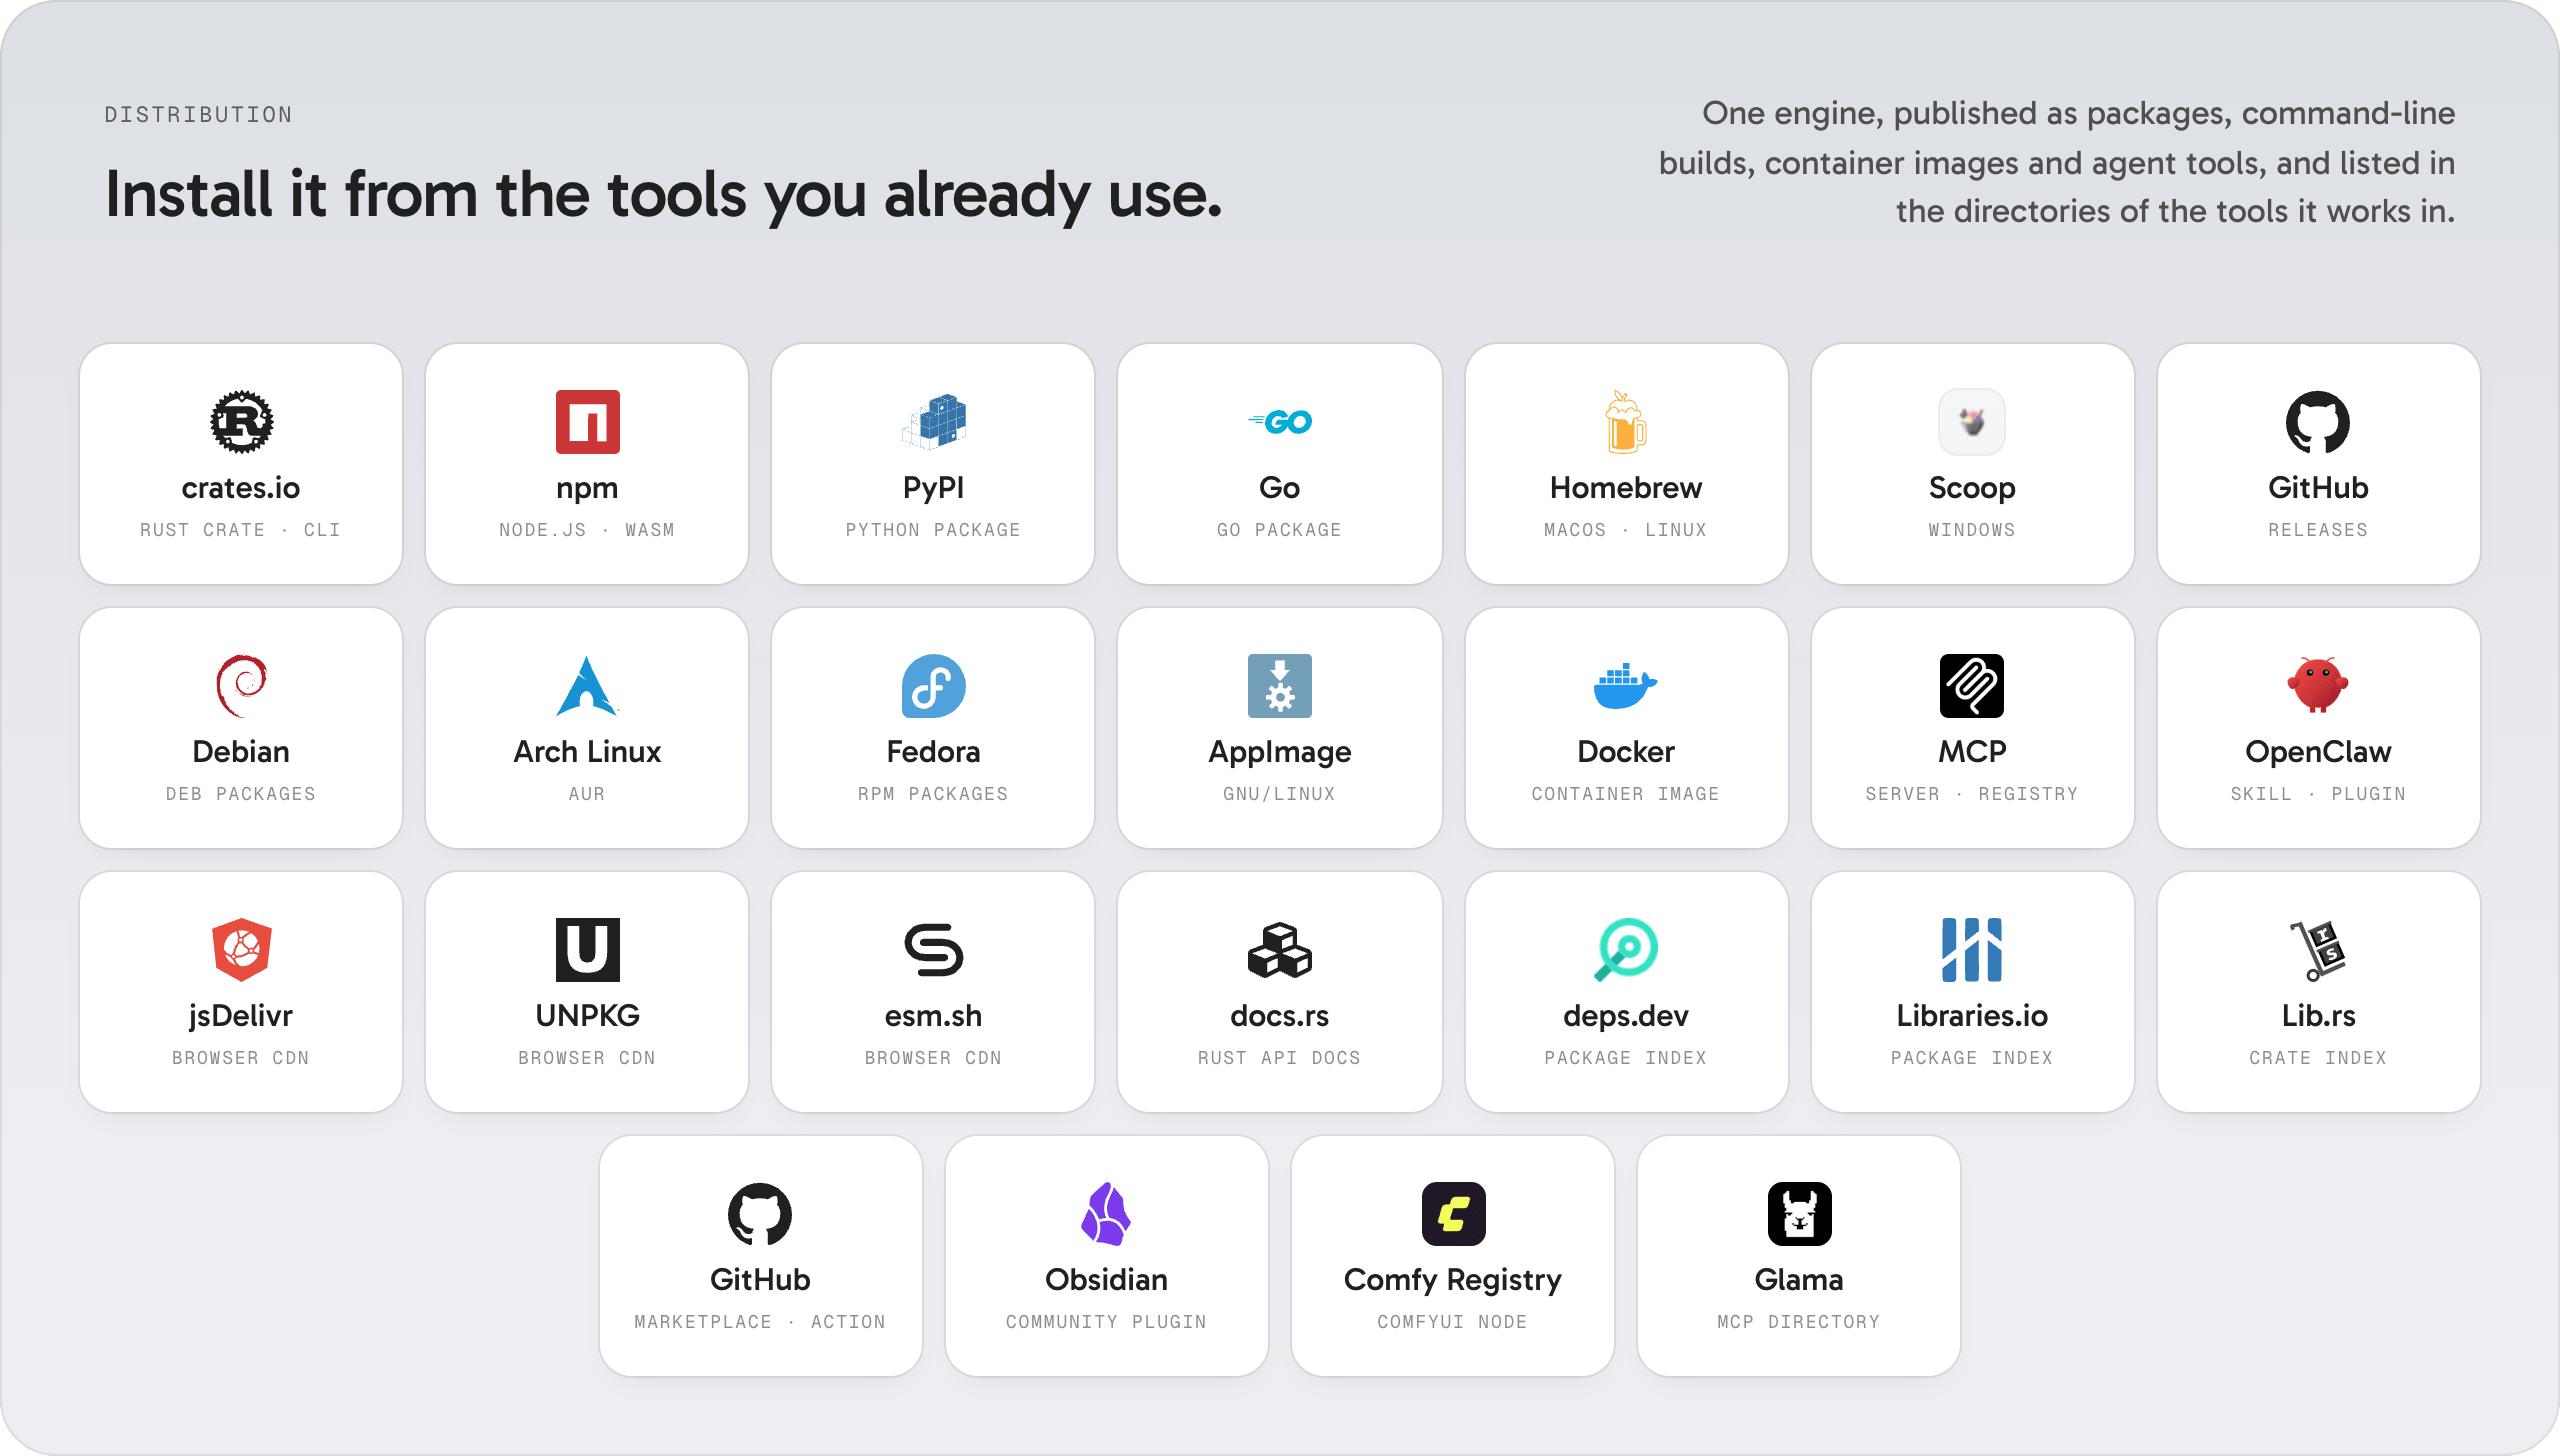
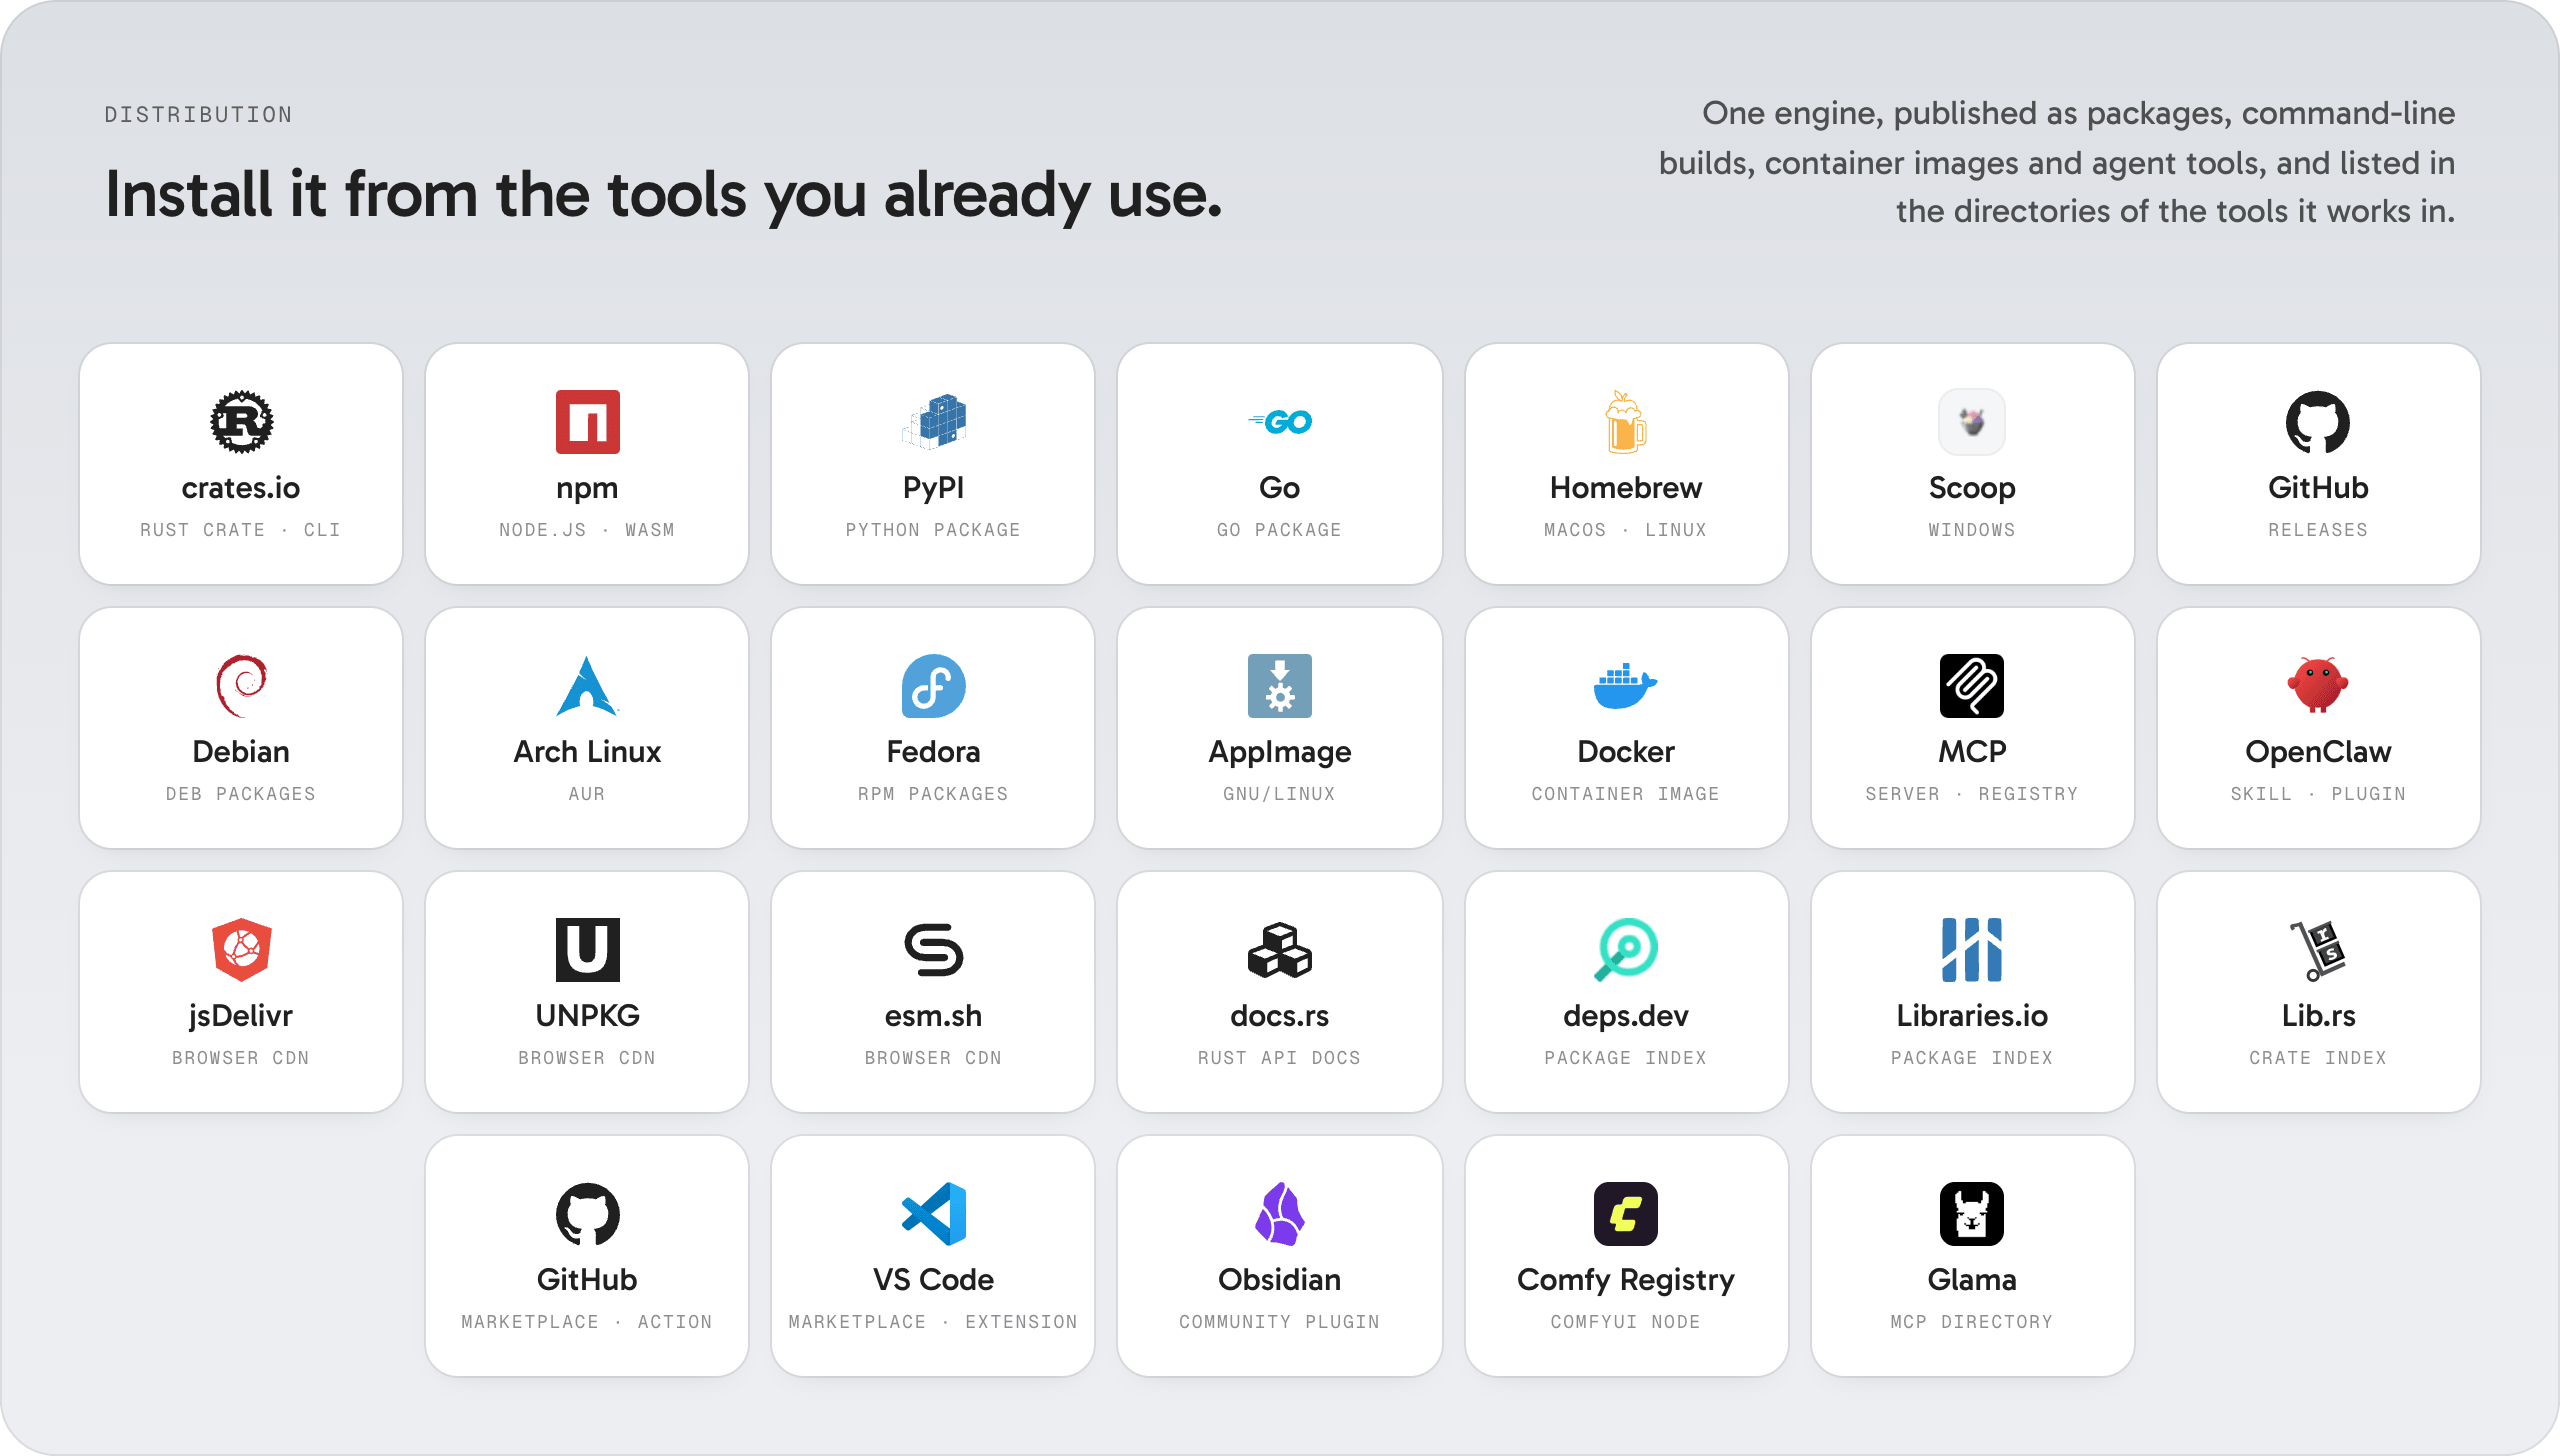
docs(readme): list the vs code extension with the live directories
The Visual Studio Marketplace now lists the extension, so Get started
gains its row (mark, identifier, what it does, guide) and VS Code leaves
the sentence on the integrations that wait for their stores. The
destinations picture gains its tile, its alt text names the Visual
Studio Marketplace, and mark-vscode is added. Open VSX is not listed:
its namespace claim is still open. Every listing page answered 200 at
commit time, and the Ask AI blocks did not change.

Changed region(s): [[0.25, 0.8036, 0.7812, 0.9272], [0.2188, 0.8036, 0.25, 0.8963]]

diff --git a/README.md b/README.md
@@ -192,24 +192,25 @@ each one installs.
 <p align="center">
   <a href="https://github.com/qrcode-ai-com/qrcode-barcode-scanner-rust/blob/main/distribution/README.md">
     <picture>
-      <source media="(prefers-color-scheme: dark)" srcset="https://raw.githubusercontent.com/qrcode-ai-com/qrcode-barcode-scanner-rust/main/docs/assets/brand/destinations-dark.png?v=ea362e26e0d4">
-      <img src="https://raw.githubusercontent.com/qrcode-ai-com/qrcode-barcode-scanner-rust/main/docs/assets/brand/destinations-light.png?v=9cba7c70eae5" alt="Where the scanner is published and listed: crates.io, npm, PyPI, Go, Homebrew, Scoop, GitHub Releases, Debian, Arch Linux, Fedora, AppImage, a container image, MCP, OpenClaw, jsDelivr, UNPKG, esm.sh, docs.rs, deps.dev, Libraries.io, Lib.rs, the GitHub Marketplace, the Obsidian community plugins, the Comfy Registry and Glama" width="100%">
+      <source media="(prefers-color-scheme: dark)" srcset="https://raw.githubusercontent.com/qrcode-ai-com/qrcode-barcode-scanner-rust/main/docs/assets/brand/destinations-dark.png?v=e096a59ccab2">
+      <img src="https://raw.githubusercontent.com/qrcode-ai-com/qrcode-barcode-scanner-rust/main/docs/assets/brand/destinations-light.png?v=bafc7cc21030" alt="Where the scanner is published and listed: crates.io, npm, PyPI, Go, Homebrew, Scoop, GitHub Releases, Debian, Arch Linux, Fedora, AppImage, a container image, MCP, OpenClaw, jsDelivr, UNPKG, esm.sh, docs.rs, deps.dev, Libraries.io, Lib.rs, the GitHub Marketplace, the Visual Studio Marketplace, the Obsidian community plugins, the Comfy Registry and Glama" width="100%">
     </picture>
   </a>
 </p>
 
-Four directories list it, so you can add it from inside the tool you work in:
+Five directories list it, so you can add it from inside the tool you work in:
 
 | Listed in | Entry | What it does there |
 |---|---|---|
 | <picture><source media="(prefers-color-scheme: dark)" srcset="https://raw.githubusercontent.com/qrcode-ai-com/qrcode-barcode-scanner-rust/main/docs/assets/brand/mark-github-dark.png?v=1beef6411e01"><img src="https://raw.githubusercontent.com/qrcode-ai-com/qrcode-barcode-scanner-rust/main/docs/assets/brand/mark-github-light.png?v=84629428944a" alt="" width="24" height="24" align="absmiddle"></picture> GitHub Marketplace | [`qr-code-barcode-scanner`](https://github.com/marketplace/actions/qr-code-barcode-scanner) | A workflow step reads the codes in your repository's images, and can fail the build when a payload you expect is missing. [Guide](integrations/github-action/README.md) |
+| <picture><source media="(prefers-color-scheme: dark)" srcset="https://raw.githubusercontent.com/qrcode-ai-com/qrcode-barcode-scanner-rust/main/docs/assets/brand/mark-vscode-dark.png?v=46ba2f064426"><img src="https://raw.githubusercontent.com/qrcode-ai-com/qrcode-barcode-scanner-rust/main/docs/assets/brand/mark-vscode-light.png?v=05ea2460ec2d" alt="" width="24" height="24" align="absmiddle"></picture> Visual Studio Marketplace | [`qrcode-ai-com.qrcode-barcode-scanner`](https://marketplace.visualstudio.com/items?itemName=qrcode-ai-com.qrcode-barcode-scanner) | Right-click an image file of your workspace and choose Scan QR codes and barcodes: each decoded text appears in an output channel. [Guide](integrations/vscode/README.md) |
 | <picture><source media="(prefers-color-scheme: dark)" srcset="https://raw.githubusercontent.com/qrcode-ai-com/qrcode-barcode-scanner-rust/main/docs/assets/brand/mark-obsidian-dark.png?v=43f72b4f65c1"><img src="https://raw.githubusercontent.com/qrcode-ai-com/qrcode-barcode-scanner-rust/main/docs/assets/brand/mark-obsidian-light.png?v=1e44702b653c" alt="" width="24" height="24" align="absmiddle"></picture> Obsidian community plugins | [`qrcode-barcode-scanner`](https://community.obsidian.md/plugins/qrcode-barcode-scanner) | Reads the codes in an image of your vault and writes their text into a note. [Guide](integrations/obsidian/README.md) |
 | <picture><source media="(prefers-color-scheme: dark)" srcset="https://raw.githubusercontent.com/qrcode-ai-com/qrcode-barcode-scanner-rust/main/docs/assets/brand/mark-comfyui-dark.png?v=96af9ee25553"><img src="https://raw.githubusercontent.com/qrcode-ai-com/qrcode-barcode-scanner-rust/main/docs/assets/brand/mark-comfyui-light.png?v=56a787fd873c" alt="" width="24" height="24" align="absmiddle"></picture> Comfy Registry | [`qrcode-barcode-scanner-nodes`](https://registry.comfy.org/nodes/qrcode-barcode-scanner-nodes) | A node reads every code in an image batch, to check that a generated code still decodes to the text you meant. [Guide](integrations/comfyui/README.md) |
 | <picture><source media="(prefers-color-scheme: dark)" srcset="https://raw.githubusercontent.com/qrcode-ai-com/qrcode-barcode-scanner-rust/main/docs/assets/brand/mark-glama-dark.png?v=cd36fc162618"><img src="https://raw.githubusercontent.com/qrcode-ai-com/qrcode-barcode-scanner-rust/main/docs/assets/brand/mark-glama-light.png?v=edbf6212f964" alt="" width="24" height="24" align="absmiddle"></picture> Glama MCP directory | [`qrcode-barcode-scanner-mcp`](https://glama.ai/mcp/servers/qrcode-ai-com/qrcode-barcode-scanner-mcp) | Lists the MCP server, whose `scan_image` tool reads the codes in image bytes, offline. [Guide](distribution/glama/README.md) |
 
-n8n, Node-RED, Activepieces, Raycast, Dify, VS Code, Apify, napari and the browser extension are built and
-tested in [`integrations/`](integrations/) and wait for their stores. The [distribution guide](distribution/README.md)
-gives the state of each package and recipe.
+n8n, Node-RED, Activepieces, Raycast, Dify, Apify, napari and the browser extension are built and tested in
+[`integrations/`](integrations/) and wait for their stores. The [distribution guide](distribution/README.md) gives the
+state of each package and recipe.
 
 <sub>Language, platform and host names and logos belong to their owners. They identify a runtime, a destination or a host and imply no endorsement.</sub>
 

diff --git a/docs/assets/brand/ABOUT.md b/docs/assets/brand/ABOUT.md
@@ -24,6 +24,6 @@ The banners that open the package READMEs (Rust, Node.js, the browser, Python, t
 
 The images were rendered between 18 and 20 November 2026 from the design sources of the QR Code AI website, which are kept outside this repository. Only rendered pixels are stored here: no font file, no website source and no logo file.
 
-Language and platform names and logos belong to their owners; here they identify a runtime, a destination or a host and imply no endorsement. The Go gopher was designed by Renée French and is licensed under [Creative Commons Attribution 4.0](https://creativecommons.org/licenses/by/4.0/). The PHP logo was designed by Colin Viebrock and is licensed under [Creative Commons Attribution-ShareAlike 4.0](https://creativecommons.org/licenses/by-sa/4.0/). Rust and the Rust logo are trademarks of the Rust Foundation, Node.js is a trademark of the OpenJS Foundation, and the Python logo is a trademark of the Python Software Foundation. GitHub and its mark are trademarks of GitHub, Inc., and the names and logos of Obsidian, ComfyUI and Glama are trademarks of their owners.
+Language and platform names and logos belong to their owners; here they identify a runtime, a destination or a host and imply no endorsement. The Go gopher was designed by Renée French and is licensed under [Creative Commons Attribution 4.0](https://creativecommons.org/licenses/by/4.0/). The PHP logo was designed by Colin Viebrock and is licensed under [Creative Commons Attribution-ShareAlike 4.0](https://creativecommons.org/licenses/by-sa/4.0/). Rust and the Rust logo are trademarks of the Rust Foundation, Node.js is a trademark of the OpenJS Foundation, and the Python logo is a trademark of the Python Software Foundation. GitHub and its mark are trademarks of GitHub, Inc., Visual Studio Code is a trademark of Microsoft Corporation, and the names and logos of Obsidian, ComfyUI and Glama are trademarks of their owners.
 
 A README addresses an image by its raw URL with a `?v=` value: the first twelve characters of the file's SHA-256. Replace an image and its `?v=` value together.

diff --git a/distribution/README.md b/distribution/README.md
@@ -1,8 +1,8 @@
 <p align="center">
   <a href="https://github.com/qrcode-ai-com/qrcode-barcode-scanner-rust">
     <picture>
-      <source media="(prefers-color-scheme: dark)" srcset="https://raw.githubusercontent.com/qrcode-ai-com/qrcode-barcode-scanner-rust/main/docs/assets/brand/destinations-dark.png?v=ea362e26e0d4">
-      <img src="https://raw.githubusercontent.com/qrcode-ai-com/qrcode-barcode-scanner-rust/main/docs/assets/brand/destinations-light.png?v=9cba7c70eae5" alt="Where the scanner is published and listed: crates.io, npm, PyPI, Go, Homebrew, Scoop, GitHub Releases, Debian, Arch Linux, Fedora, AppImage, a container image, MCP, OpenClaw, jsDelivr, UNPKG, esm.sh, docs.rs, deps.dev, Libraries.io, Lib.rs, the GitHub Marketplace, the Obsidian community plugins, the Comfy Registry and Glama" width="100%">
+      <source media="(prefers-color-scheme: dark)" srcset="https://raw.githubusercontent.com/qrcode-ai-com/qrcode-barcode-scanner-rust/main/docs/assets/brand/destinations-dark.png?v=e096a59ccab2">
+      <img src="https://raw.githubusercontent.com/qrcode-ai-com/qrcode-barcode-scanner-rust/main/docs/assets/brand/destinations-light.png?v=bafc7cc21030" alt="Where the scanner is published and listed: crates.io, npm, PyPI, Go, Homebrew, Scoop, GitHub Releases, Debian, Arch Linux, Fedora, AppImage, a container image, MCP, OpenClaw, jsDelivr, UNPKG, esm.sh, docs.rs, deps.dev, Libraries.io, Lib.rs, the GitHub Marketplace, the Visual Studio Marketplace, the Obsidian community plugins, the Comfy Registry and Glama" width="100%">
     </picture>
   </a>
 </p>
